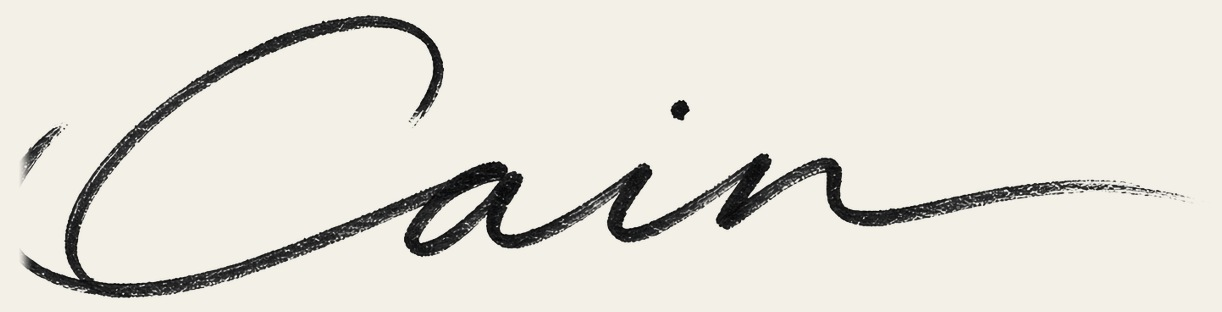
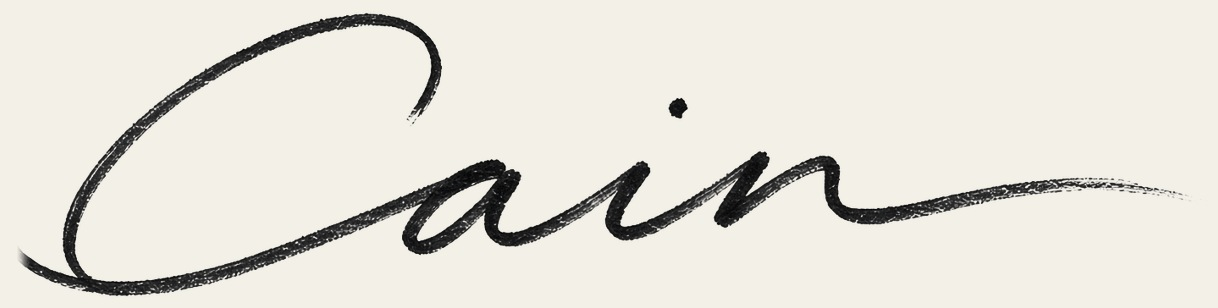
Erase the leftover tick left of the C on the About signature.

diff --git a/src/routes/about.tsx b/src/routes/about.tsx
@@ -39,7 +39,7 @@ function About() {
         <SiteCopyBody body={page.body} />
         <figure className="mt-4 max-w-sm">
           <img
-            src="/brand/cain-signature.png?v=3"
+            src="/brand/cain-signature.png?v=4"
             alt="Cain"
             className="h-20 w-auto sm:h-24"
           />
